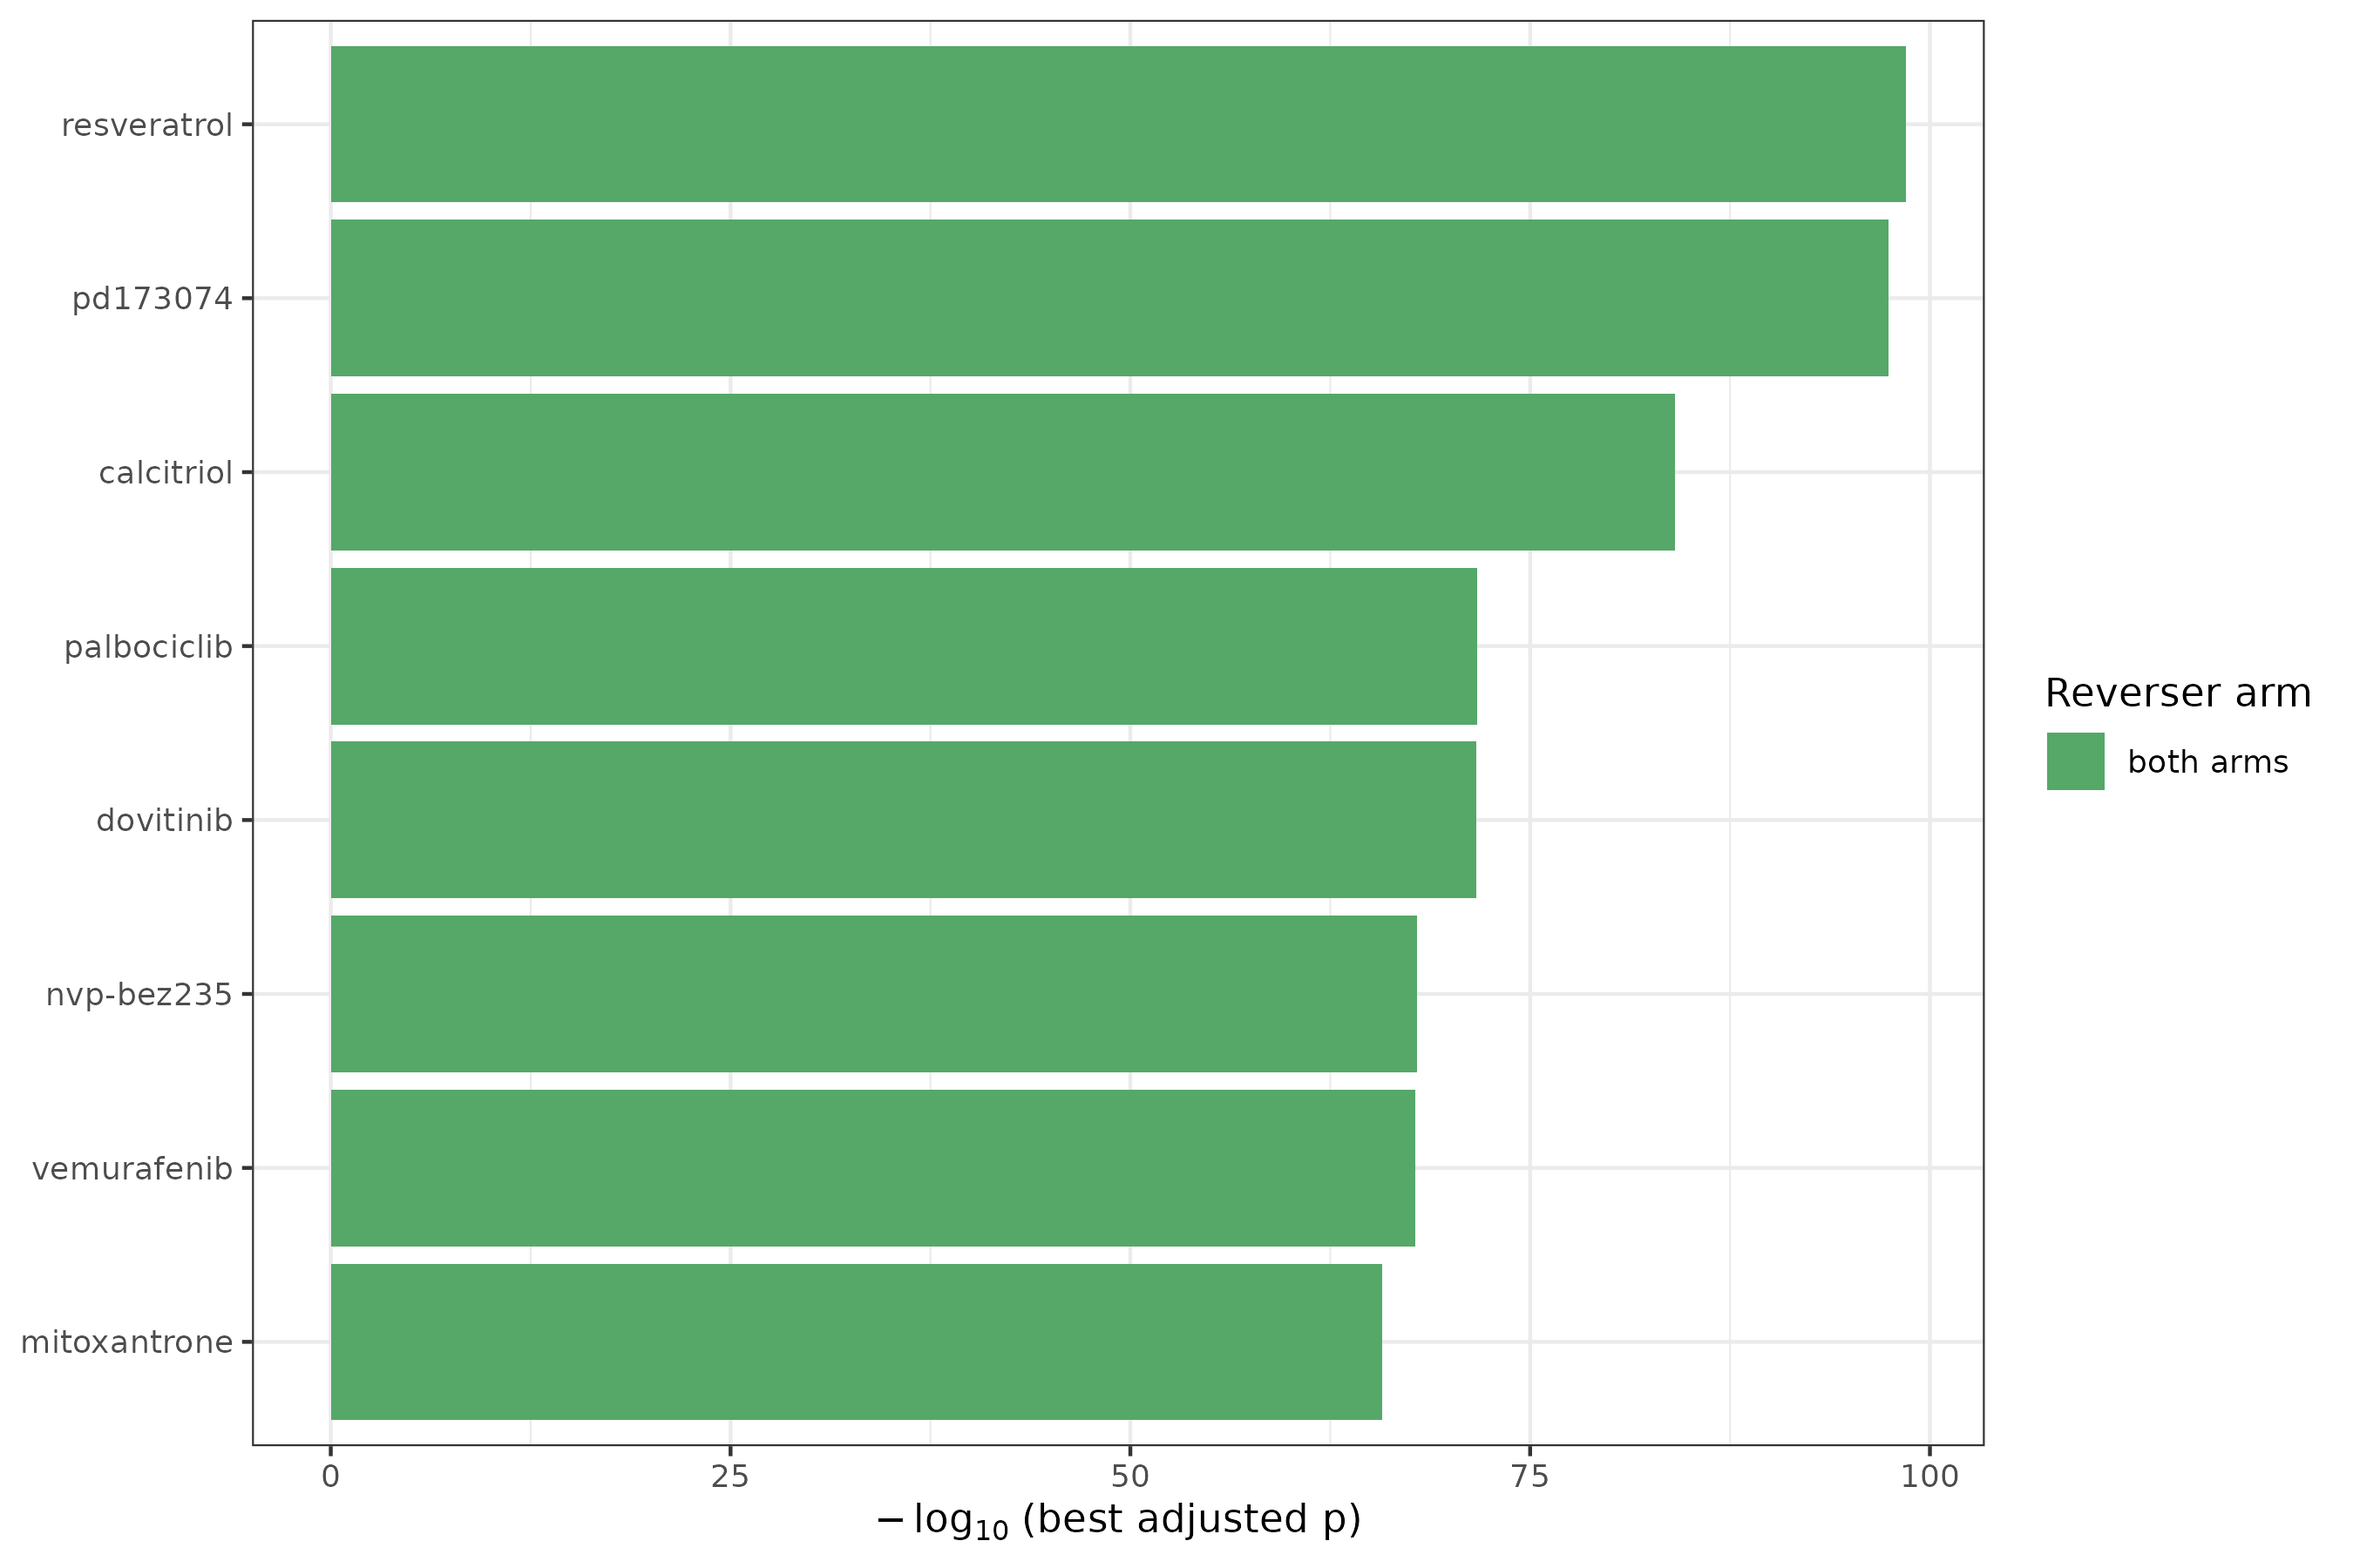
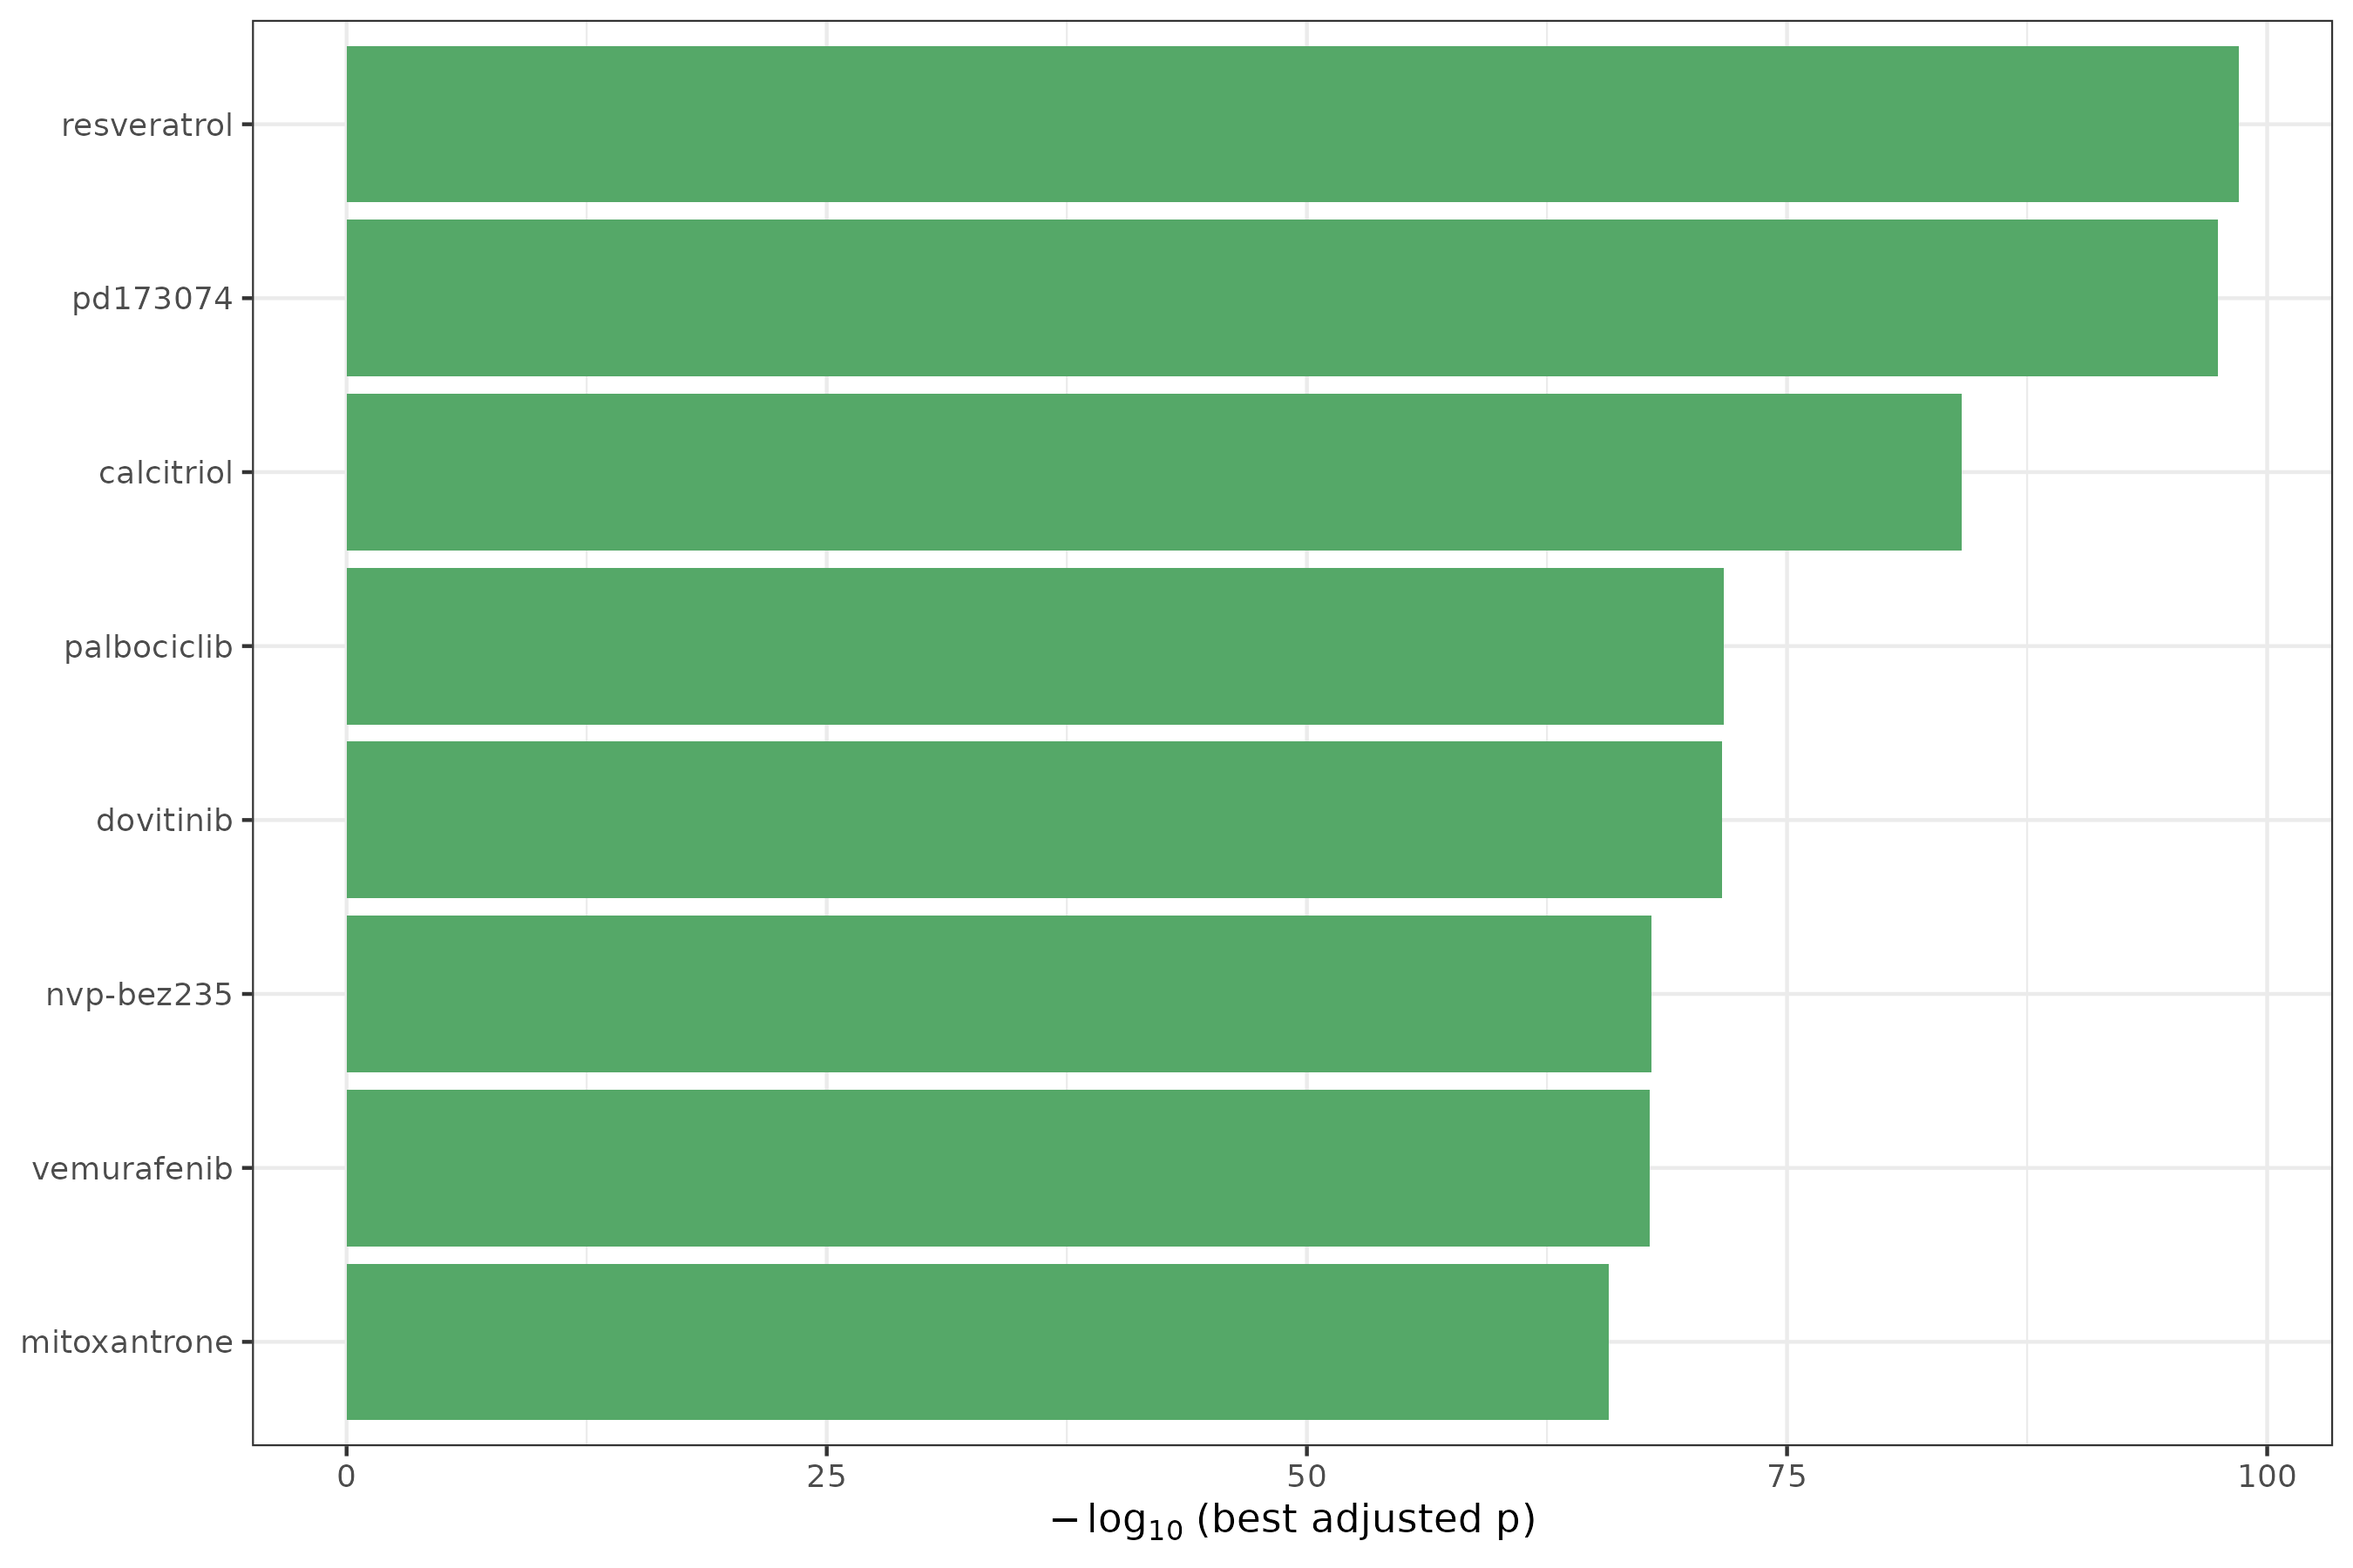
S3: drop uninformative single-level arm legend; correct caption ranking basis (adjusted p, not combined score) and name all 8 plotted compounds incl. non-kinase hits; soften cross-signature reproducibility claim to match ranks

diff --git a/PAPER.md b/PAPER.md
@@ -233,7 +233,7 @@ These nulls must be read carefully. Recent MR studies **do** report small signif
 To resolve the cellular origin of the prognostic red module, we analysed a public gastric single-cell RNA-seq dataset (18) spanning the premalignant-to-early-cancer cascade (GSE134520; 43,992 cells after QC, 8 cell types). The module localised **unambiguously to fibroblasts**: 28 of 29 red-module hub genes had their dominant expression in the fibroblast compartment (POSTN 0.97, COL1A2 0.98, CDH11 0.96, LUM 0.97, COL1A1/COL3A1/BGN/DCN all >0.96 fraction-in-dominant-type), with essentially no tumour-epithelial signal. Among signature genes, stromal members likewise tracked fibroblasts (POSTN, APOD, MATN3), epithelial-programme genes localised to epithelium (EGF, SP6, RNF43), and SERPINE1 to endothelium. The single exception was FAP, which was assigned to the endothelial rather than the fibroblast compartment (fraction-in-dominant 0.71); we report this honestly rather than explain it away — it may reflect the scarcity of activated (FAP⁺) cancer-associated fibroblasts in this premalignant/early-stage dataset, where fibroblasts are only ~4% of cells. Thus the survival-associated bulk module localises, at single-cell resolution, to the **fibroblast/stromal compartment** rather than the tumour epithelium. We are careful not to overstate this, and disclose a specific circularity: the fibroblast cluster itself was annotated using a canonical marker panel (DCN, LUM, COL1A1, COL1A2, PDGFRB, FAP, COL3A1), six members of which are also among the 29 hub genes tested, so for that subset fibroblast-dominance is guaranteed by construction rather than independently demonstrated. We therefore re-ran the localisation on the **23 hub genes not used for cluster annotation**: **all 23 remained fibroblast-dominant** (median fraction-in-dominant 0.96; Figure 3C; Supplementary Table S5, `results/scrna/gene_dominant_celltype_noncircular.csv`), and the single non-fibroblast gene in the full panel (FAP → endothelial) was itself one of the six annotation markers removed. The fibroblast localisation is thus robust to the circularity, but — because the tested genes are canonical fibroblast/ECM markers — it confirms the **cell-type identity** of the programme rather than constituting an independent test of its prognostic specificity. Two further limits bound the inference: the dataset is premalignant/early-stage (fibroblasts only ~4% of cells; no myCAF/iCAF sub-clustering was attempted, and FAP — the one activated-CAF marker — did not localise to fibroblasts), and enzymatic-dissociation scRNA-seq protocols systematically under-recover ECM-embedded fibroblasts relative to epithelial/immune cells, which could itself depress fibroblast yield and FAP capture independent of disease stage. For these reasons we describe this as a **fibroblast/stromal programme** and reserve "activated CAF" language for where activation state is actually shown; the result establishes *where* the prognostic signal resides — the fibroblast/stromal compartment — but is confirmatory of marker identity rather than a novel demonstration of CAF-activation specificity, and should ultimately be corroborated in an advanced-stage, ideally spatial or single-nucleus, dataset.
 
 ### 3.11 In-silico drug-repurposing (hypothesis-generating)
-Querying the integrated tumour signature (top 150 up / 150 down genes by tumour-vs-normal t) against LINCS L1000 and GEO drug-perturbation libraries (Enrichr) for compounds whose perturbation profile **reverses** the tumour signature nominated a robust set of candidates that reverse it on **both arms** (repressing tumour-up genes *and* inducing tumour-down genes). The strongest were dominated by **PI3K/mTOR inhibitors (NVP-BEZ235, PI-103, GDC-0941, torin-2, GDC-0980)** and cell-cycle inhibitors (**palbociclib**, CDK4/6), alongside FGFR/multikinase inhibitors (PD-173074, dovitinib, foretinib) and the polyphenol resveratrol — all concordant with the proliferation-dominated programme. The CDK/HDAC/multikinase classes nominated independently from the TCGA-only signature (roscovitine, belinostat, dasatinib) were reproduced, confirming robustness across the TCGA-only and integrated TCGA+GTEx signatures. These predictions remain **in-silico and hypothesis-generating only**, with no experimental validation; and because the up-signature is proliferation-dominated, the nominated classes are broadly anti-proliferative rather than gastric-cancer-specific, and are offered as candidate directions, not conclusions. To ask whether these nominated targets are genuine cancer vulnerabilities rather than mere expression correlates, we cross-referenced them against **DepMap (24Q4) CRISPR–Chronos** dependency data in 35 gastric cell lines: the PI3K/mTOR and CDK4/6 nodes met the dependency threshold (mean gene-effect < −0.5) — **PIK3CA** (−0.74; dependent in 57% of lines and *selectively* more essential in gastric than pan-cancer lines), **MTOR** (−1.18; common-essential), **CDK4** (−0.83) and **CDK6** (−0.55) — whereas the FGFR-family targets did not, indicating that the anti-proliferative repurposing signal points at experimentally-supported gastric dependencies (PI3K/mTOR and CDK4/6) rather than at FGFR (`results/depmap/`); the top-ranked candidate compounds are shown in Supplementary Figure S3.
+Querying the integrated tumour signature (top 150 up / 150 down genes by tumour-vs-normal t) against LINCS L1000 and GEO drug-perturbation libraries (Enrichr) for compounds whose perturbation profile **reverses** the tumour signature nominated a robust set of candidates that reverse it on **both arms** (repressing tumour-up genes *and* inducing tumour-down genes). The strongest were dominated by **PI3K/mTOR inhibitors (NVP-BEZ235, PI-103, GDC-0941, torin-2, GDC-0980)** and cell-cycle inhibitors (**palbociclib**, CDK4/6), alongside FGFR/multikinase inhibitors (PD-173074, dovitinib, foretinib) and the polyphenol resveratrol — all concordant with the proliferation-dominated programme. The CDK/HDAC/multikinase compounds nominated from the TCGA-only signature remain significant reversers under the integrated signature but fall well outside its leading candidates (dasatinib rank 30, belinostat 180, roscovitine 230 of 435 both-arm hits), so the two signatures agree on broad anti-proliferative direction rather than on a specific compound list. These predictions remain **in-silico and hypothesis-generating only**, with no experimental validation; and because the up-signature is proliferation-dominated, the nominated classes are broadly anti-proliferative rather than gastric-cancer-specific, and are offered as candidate directions, not conclusions. To ask whether these nominated targets are genuine cancer vulnerabilities rather than mere expression correlates, we cross-referenced them against **DepMap (24Q4) CRISPR–Chronos** dependency data in 35 gastric cell lines: the PI3K/mTOR and CDK4/6 nodes met the dependency threshold (mean gene-effect < −0.5) — **PIK3CA** (−0.74; dependent in 57% of lines and *selectively* more essential in gastric than pan-cancer lines), **MTOR** (−1.18; common-essential), **CDK4** (−0.83) and **CDK6** (−0.55) — whereas the FGFR-family targets did not, indicating that the anti-proliferative repurposing signal points at experimentally-supported gastric dependencies (PI3K/mTOR and CDK4/6) rather than at FGFR (`results/depmap/`); the top-ranked candidate compounds are shown in Supplementary Figure S3.
 
 ## 4. Discussion
 
@@ -340,7 +340,7 @@ File: `results/scrna/DotPlot_stromal_module_hub.png`.
 
 Supplementary Figure S3. Candidate compounds from in-silico drug repurposing.
 
-Bar plot of the top compounds whose transcriptional perturbation signature reverses the tumour programme on both arms, that is, repressing tumour-up genes and inducing tumour-down genes, ranked by combined score from Enrichr queried against the LINCS L1000 and Gene Expression Omnibus drug-perturbation libraries. The nominated classes are dominated by phosphoinositide 3-kinase (PI3K)/mechanistic target of rapamycin (mTOR) inhibitors, cyclin-dependent kinase 4/6 (CDK4/6) inhibitors, and fibroblast growth factor receptor (FGFR)/multikinase inhibitors. These predictions are computational and hypothesis-generating only; no compound was experimentally validated, and because the tumour-up programme is proliferation-dominated the nominated agents are broadly anti-proliferative rather than specific to gastric cancer.
+Bar plot of the eight highest-ranked compounds whose transcriptional perturbation signature reverses the tumour programme, from Enrichr queried against the LINCS L1000 and Gene Expression Omnibus drug-perturbation libraries. Bar length is −log10 of the best Benjamini–Hochberg-adjusted enrichment p value across contributing signatures, which is also the ordering criterion. Every compound shown reverses the programme on both arms — repressing tumour-up genes and inducing tumour-down genes — so no arm legend is displayed. Four of the eight are targeted kinase inhibitors concordant with a proliferation-dominated programme: the fibroblast growth factor receptor (FGFR) inhibitor PD-173074, the cyclin-dependent kinase 4/6 (CDK4/6) inhibitor palbociclib, the FGFR/multikinase inhibitor dovitinib and the phosphoinositide 3-kinase (PI3K)/mechanistic target of rapamycin (mTOR) inhibitor NVP-BEZ235. The remaining four are not kinase inhibitors and include the highest-ranked hit, resveratrol, together with calcitriol, vemurafenib and mitoxantrone; broadly bioactive compounds of this kind recur across LINCS reversal analyses irrespective of tumour type and should be treated as non-specific. These predictions are computational and hypothesis-generating only; no compound was experimentally validated, and because the tumour-up programme is proliferation-dominated the nominated agents are broadly anti-proliferative rather than specific to gastric cancer.
 
 File: `results/drug_repurposing_integrated/top_candidate_drugs.png`.
 
